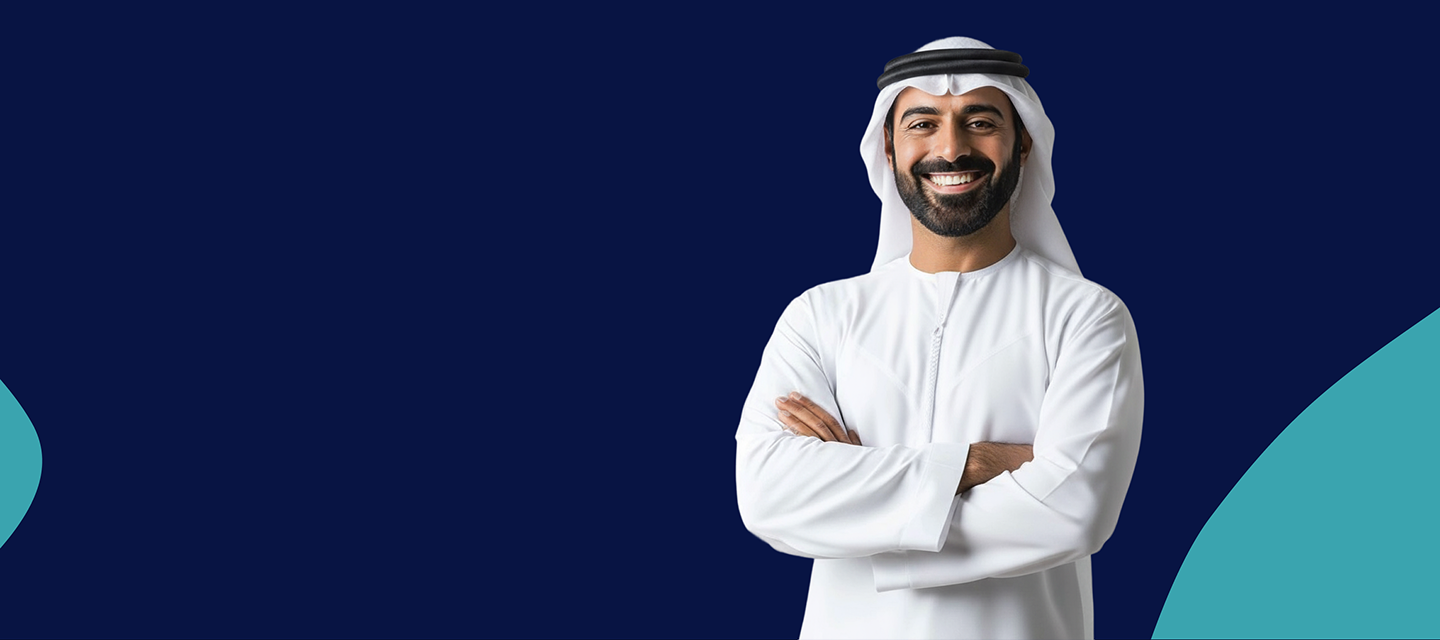
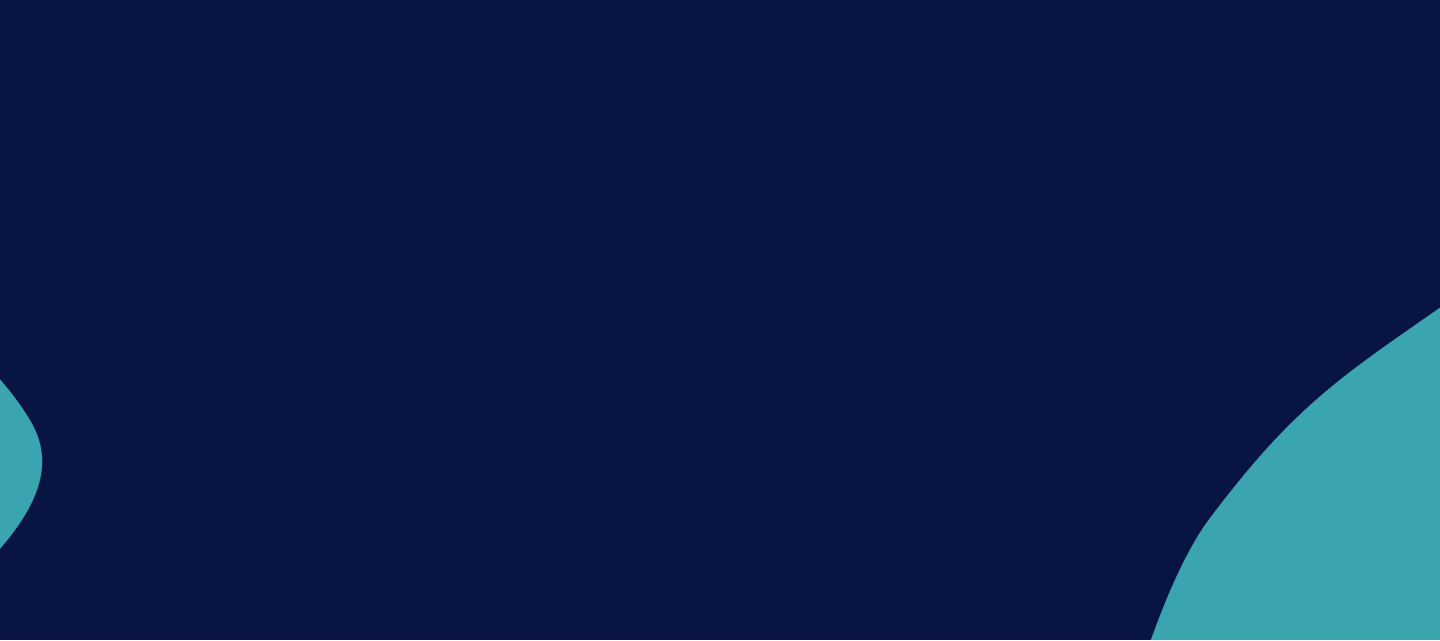
improved lead sction and main head

Changed region(s): [[0.5, 0.0312, 0.8125, 1.0]]

diff --git a/components/mainheader.tsx b/components/mainheader.tsx
@@ -99,25 +99,18 @@ import { motion } from "framer-motion";
 const slides = [
   {
     image: "/images/banner-1.png",
-    title: "Empowering Endowment Growth For A Sustainable Future",
+    title: "Empowering Endowment Growth for a Sustainable Future",
     desc: "Awqaf Capital is dedicated to advancing the endowment sector through innovative investment management, real estate development, and strategic partnerships that serve Government, Donors, and the Private Sector.",
   },
   {
-    image:
-      "https://images.unsplash.com/photo-1507525428034-b723cf961d3e?auto=format&fit=crop&w=1600&q=80",
-    title: "Empowering Endowment Growth For A Sustainable Future",
-    desc: "Awqaf Capital is dedicated to advancing the endowment sector through innovative investment management, real estate development, and strategic partnerships that serve Government, Donors, and the Private Sector.",
+    image: "/images/banner-2.png",
+    title: "Creating new pathways for capital with purpose.",
+    desc: "At Awqaf Capital, we deploy financial strength across diverse asset classes, empowering investors and supporting Abu Dhabi's role as the “Capital of Capital.”",
   },
   {
-    image:
-      "https://images.unsplash.com/photo-1506744038136-46273834b3fb?auto=format&fit=crop&w=1600&q=80",
-    title: "Innovating for Tomorrow's Endowment Solutions",
-    desc: "Building sustainable frameworks and innovative investment opportunities to empower future generations.",
-  },
-  {
-    image: "/images/banner-1.png",
-    title: "Empowering Endowment Growth For A Sustainable Future",
-    desc: "Awqaf Capital is dedicated to advancing the endowment sector through innovative investment management, real estate development, and strategic partnerships that serve Government, Donors, and the Private Sector.",
+    image: "/images/banner-3.png",
+    title: "Investing in Abu Dhabi's global financial future.",
+    desc: "As a cornerstone of the emirate's financial ecosystem, Awqaf Capital is leveraging Abu Dhabi's position as a bridge between global markets to deliver value and impact.",
   },
 ];
 

diff --git a/components/lead-section.tsx b/components/lead-section.tsx
@@ -37,17 +37,24 @@ import Image from "next/image";
 
 export default function LeadSection() {
   return (
-    <section className="relative h-[640px] overflow-hidden flex items-center">
+    <section
+      className="relative min-h-[640px] flex items-center"
+      style={{
+        backgroundImage: "url(/images/invest-bg.png)",
+        backgroundSize: "cover",
+        backgroundRepeat: "no-repeat",
+      }}
+    >
       {/* Background image */}
-      <div className="absolute inset-0">
+      {/* <div className="absolute inset-0">
         <Image
-          src="/images/invest-bg.png" // place your image in /public/images/
+          src="/images/invest-bg.png" 
           alt="Background pattern"
           fill
           className="object-cover"
           priority
         />
-      </div>
+      </div> */}
 
       {/* Foreground content */}
       <div className="relative z-10 mx-auto w-full px-6 lg:px-8 flex flex-col md:flex-row items-center justify-between">
@@ -64,14 +71,14 @@ export default function LeadSection() {
 
         {/* Right: Person Image */}
         <div className="relative mt-10 md:mt-0 w-full max-w-sm md:max-w-md lg:max-w-lg">
-          {/* <Image
+          <Image
             src="/images/lead.png"
             alt="Professional in traditional attire"
             width={500}
             height={640}
             className="object-contain"
             priority
-          /> */}
+          />
         </div>
       </div>
     </section>

diff --git a/styles/globals.css b/styles/globals.css
@@ -140,6 +140,53 @@
   font-display: swap;
 }
 
+/* Light */
+@font-face {
+  font-family: "Tahoma";
+  src: url("/fonts/WF-000011-000126-000136-d52dd00ec01eba5d46d1a4efe03e8176.otf") format("opentype");
+  font-weight: 300;
+  font-style: normal;
+  font-display: swap;
+}
+
+/* Regular */
+@font-face {
+  font-family: "Tahoma";
+  src: url("/fonts/WF-000011-000126-000137-86e07cecd27e51b8c594f67962af522c.otf") format("opentype");
+  font-weight: 400;
+  font-style: normal;
+  font-display: swap;
+}
+
+/* Medium */
+@font-face {
+  font-family: "Tahoma";
+  src: url("/fonts/WF-000011-000126-000138-05fae43d1294b268224b82fdad573c3e.otf") format("opentype");
+  font-weight: 500;
+  font-style: normal;
+  font-display: swap;
+}
+
+/* Semi-bold */
+@font-face {
+  font-family: "Tahoma";
+  src: url("/fonts/WF-000011-000126-000139-8af8a4de6aeefc22e7452a6a59e179c5.otf") format("opentype");
+  font-weight: 600;
+  font-style: normal;
+  font-display: swap;
+}
+
+/* Bold */
+@font-face {
+  font-family: "Tahoma";
+  src: url("/fonts/WF-000011-000126-000140-16ead8bb83a8a11c2b92b5c2b719a9d8.otf") format("opentype");
+  font-weight: 700;
+  font-style: normal;
+  font-display: swap;
+}
+
+/* Add more for the remaining files following the same pattern */
+
 @layer base {
   * {
     @apply border-border outline-ring/50;
